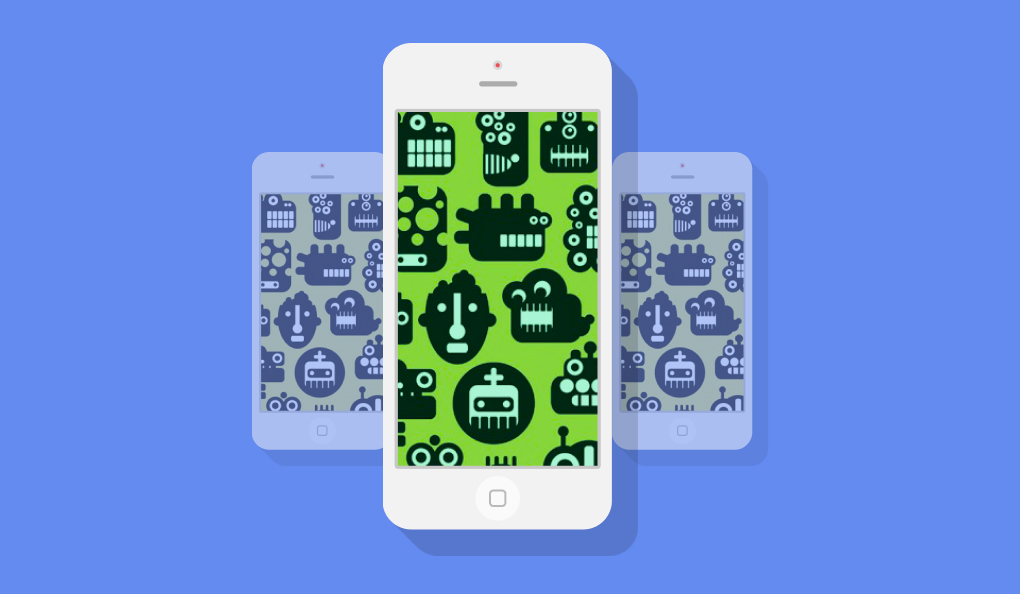
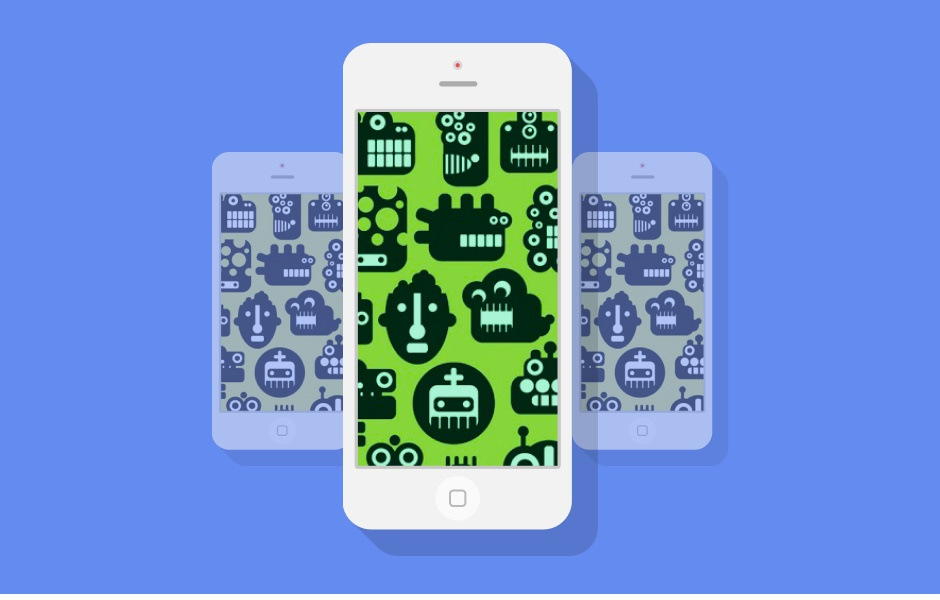
feat: slider

Changed region(s): [[0.216, 0.06, 0.7713, 0.93], [0.4628, 0.81, 0.4936, 0.84], [0.4011, 0.9, 0.4319, 0.93]]

diff --git a/script.js b/script.js
@@ -8,6 +8,7 @@ const prevBtn = document.getElementById('btn-prev');
 const nextBtn = document.getElementById('btn-next');
 const verticalPhone = document.getElementById('vertical-phone-btn');
 const horizontalPhone = document.getElementById('horizontal-phone-btn');
+const slides = document.querySelectorAll('.slide');
 
 /*============================== Header ==============================*/
 
@@ -36,23 +37,25 @@ document.addEventListener("scroll", (function() {
 
 prevBtn.addEventListener('click', () =>{
   let counter = 0;
+  let slider = document.getElementById('home');
   let interval = setInterval(() => {
     document.querySelectorAll('.slide').forEach( (item) => {
-      if(item.style.left === '-1020px'){
+      if(item.style.left === '-940px'){
         clearInterval(interval);
         swapTwoSlides('');
         return;
       }else {
         counter -= 10;
         item.style.left = `${counter}px`;
+        // slider.style.backgroundColor = fadeColor();
       }
     });
   }, 10);
 });
 
 nextBtn.addEventListener('click', () =>{
-  swapTwoSlides('-1020px');
-  let counter = -1020;
+  swapTwoSlides('-940px');
+  let counter = -940;
   let interval = setInterval(() => {
     document.querySelectorAll('.slide').forEach( (item) => {
       if(item.style.left === '0px'){
@@ -75,6 +78,31 @@ function swapTwoSlides(offset){
     slides.forEach( (item) => {item.style.left=offset;})
   }
 }
+
+function fadeColor(){
+  let slides = document.querySelectorAll('.slide');
+  slides.forEach( (item) => {item.style.left='0px';})
+}
+
+
+// function fadeColor()
+// {
+//   /*процент содержания конечного цвета в текущем промежуточном цвете;
+//   изменяется от 0 (не включая 0) до 1 (1 = 100%)*/
+//   var finishPercent = i/n;
+//   /*процент содержания начального цвета в текущем промежуточном цвете;
+//   изменяется от 1 до 0 (1 = 100%) */
+//   var startPercent = 1 - finishPercent;
+
+//   var R,G,B;
+
+//   //вычисляем значения красного, зеленого, синего промежуточного цвета
+//   R = Math.floor( ('0x'+aRGBStart[0]) * startPercent + ('0x'+aRGBFinish[0]) * finishPercent );
+//   G = Math.floor( ('0x'+aRGBStart[1]) * startPercent + ('0x'+aRGBFinish[1]) * finishPercent );
+//   B = Math.floor( ('0x'+aRGBStart[2]) * startPercent + ('0x'+aRGBFinish[2]) * finishPercent );
+
+//   return 'rgb('+R+ ',' + G + ',' + B +')';
+// }
 
 function clearSlidesPosition(){
   let slides = document.querySelectorAll('.slide');

diff --git a/style.css b/style.css
@@ -150,7 +150,7 @@ nav {
 }
 
 .first-slider-container {
-  width: 1020px;
+  width: 940px;
   position: relative;
 }
 
@@ -173,7 +173,7 @@ nav {
   position: absolute;
   width: 16px;
   height: 27px;
-  top: 281px;
+  top: 375px;
   left: 42px;
   z-index: 100;
 }
@@ -185,14 +185,14 @@ nav {
 
 .phone-vertical {
   top: 53px;
-  left: 112px;
+  left: 72px;
   width: 240px;
   height: 484px;
 }
 
 .phone-horizontal {
   top: 174px;
-  right: 111px;
+  right: 72px;
   width: 483px;
   height: 240px;
 }
@@ -206,14 +206,14 @@ nav {
 
 .vertical-black-screen {
   top: 118px;
-  left: 126px;
+  left: 86px;
   width: 188px;
   height: 334px;
 }
 
 .horizontal-black-screen {
   top: 188px;
-  right: 202px;
+  right: 163px;
   width: 332px;
   height: 188px;
 }
@@ -234,21 +234,21 @@ nav {
   width: 42px;
   height: 42px;
   top: 462px;
-  left: 199px;
+  left: 158px;
 }
 
 #horizontal-phone-btn {
   width: 42px;
   height: 42px;
   top: 261px;
-  left: 435px;
+  left: 394px;
 }
 
 .next {
   position: absolute;
   width: 16px;
   height: 27px;
-  top: 281px;
+  top: 375px;
   right: 40px;
   z-index: 100;
 }
